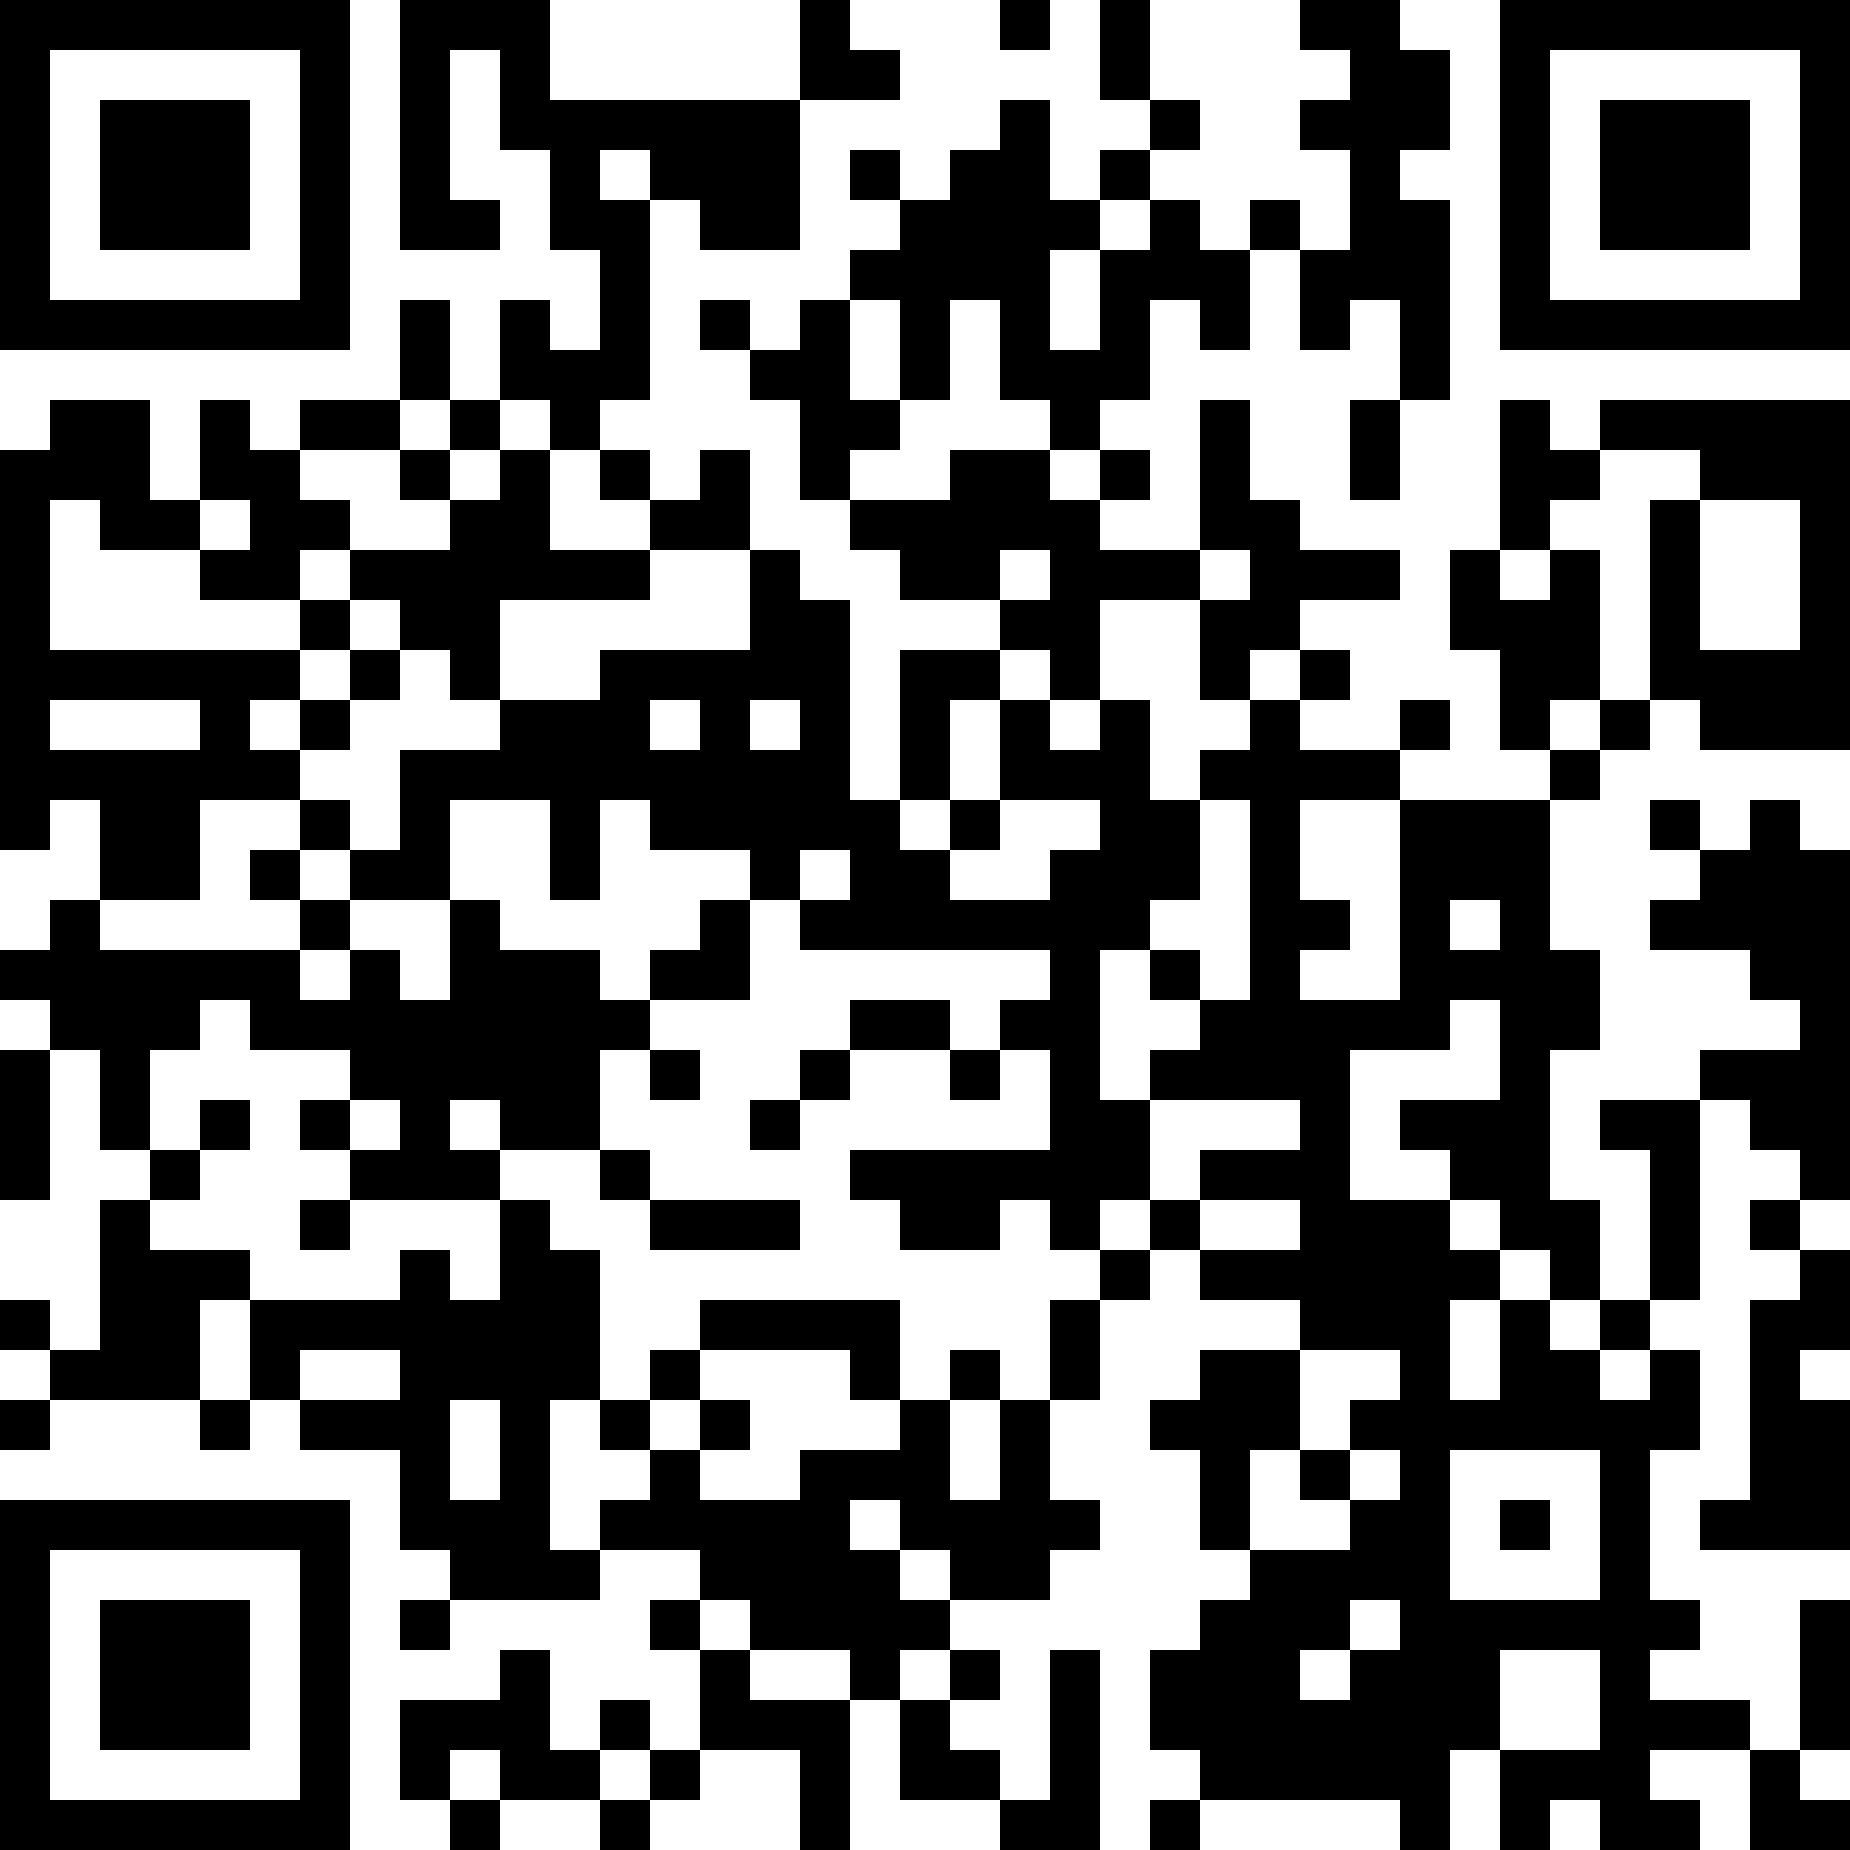
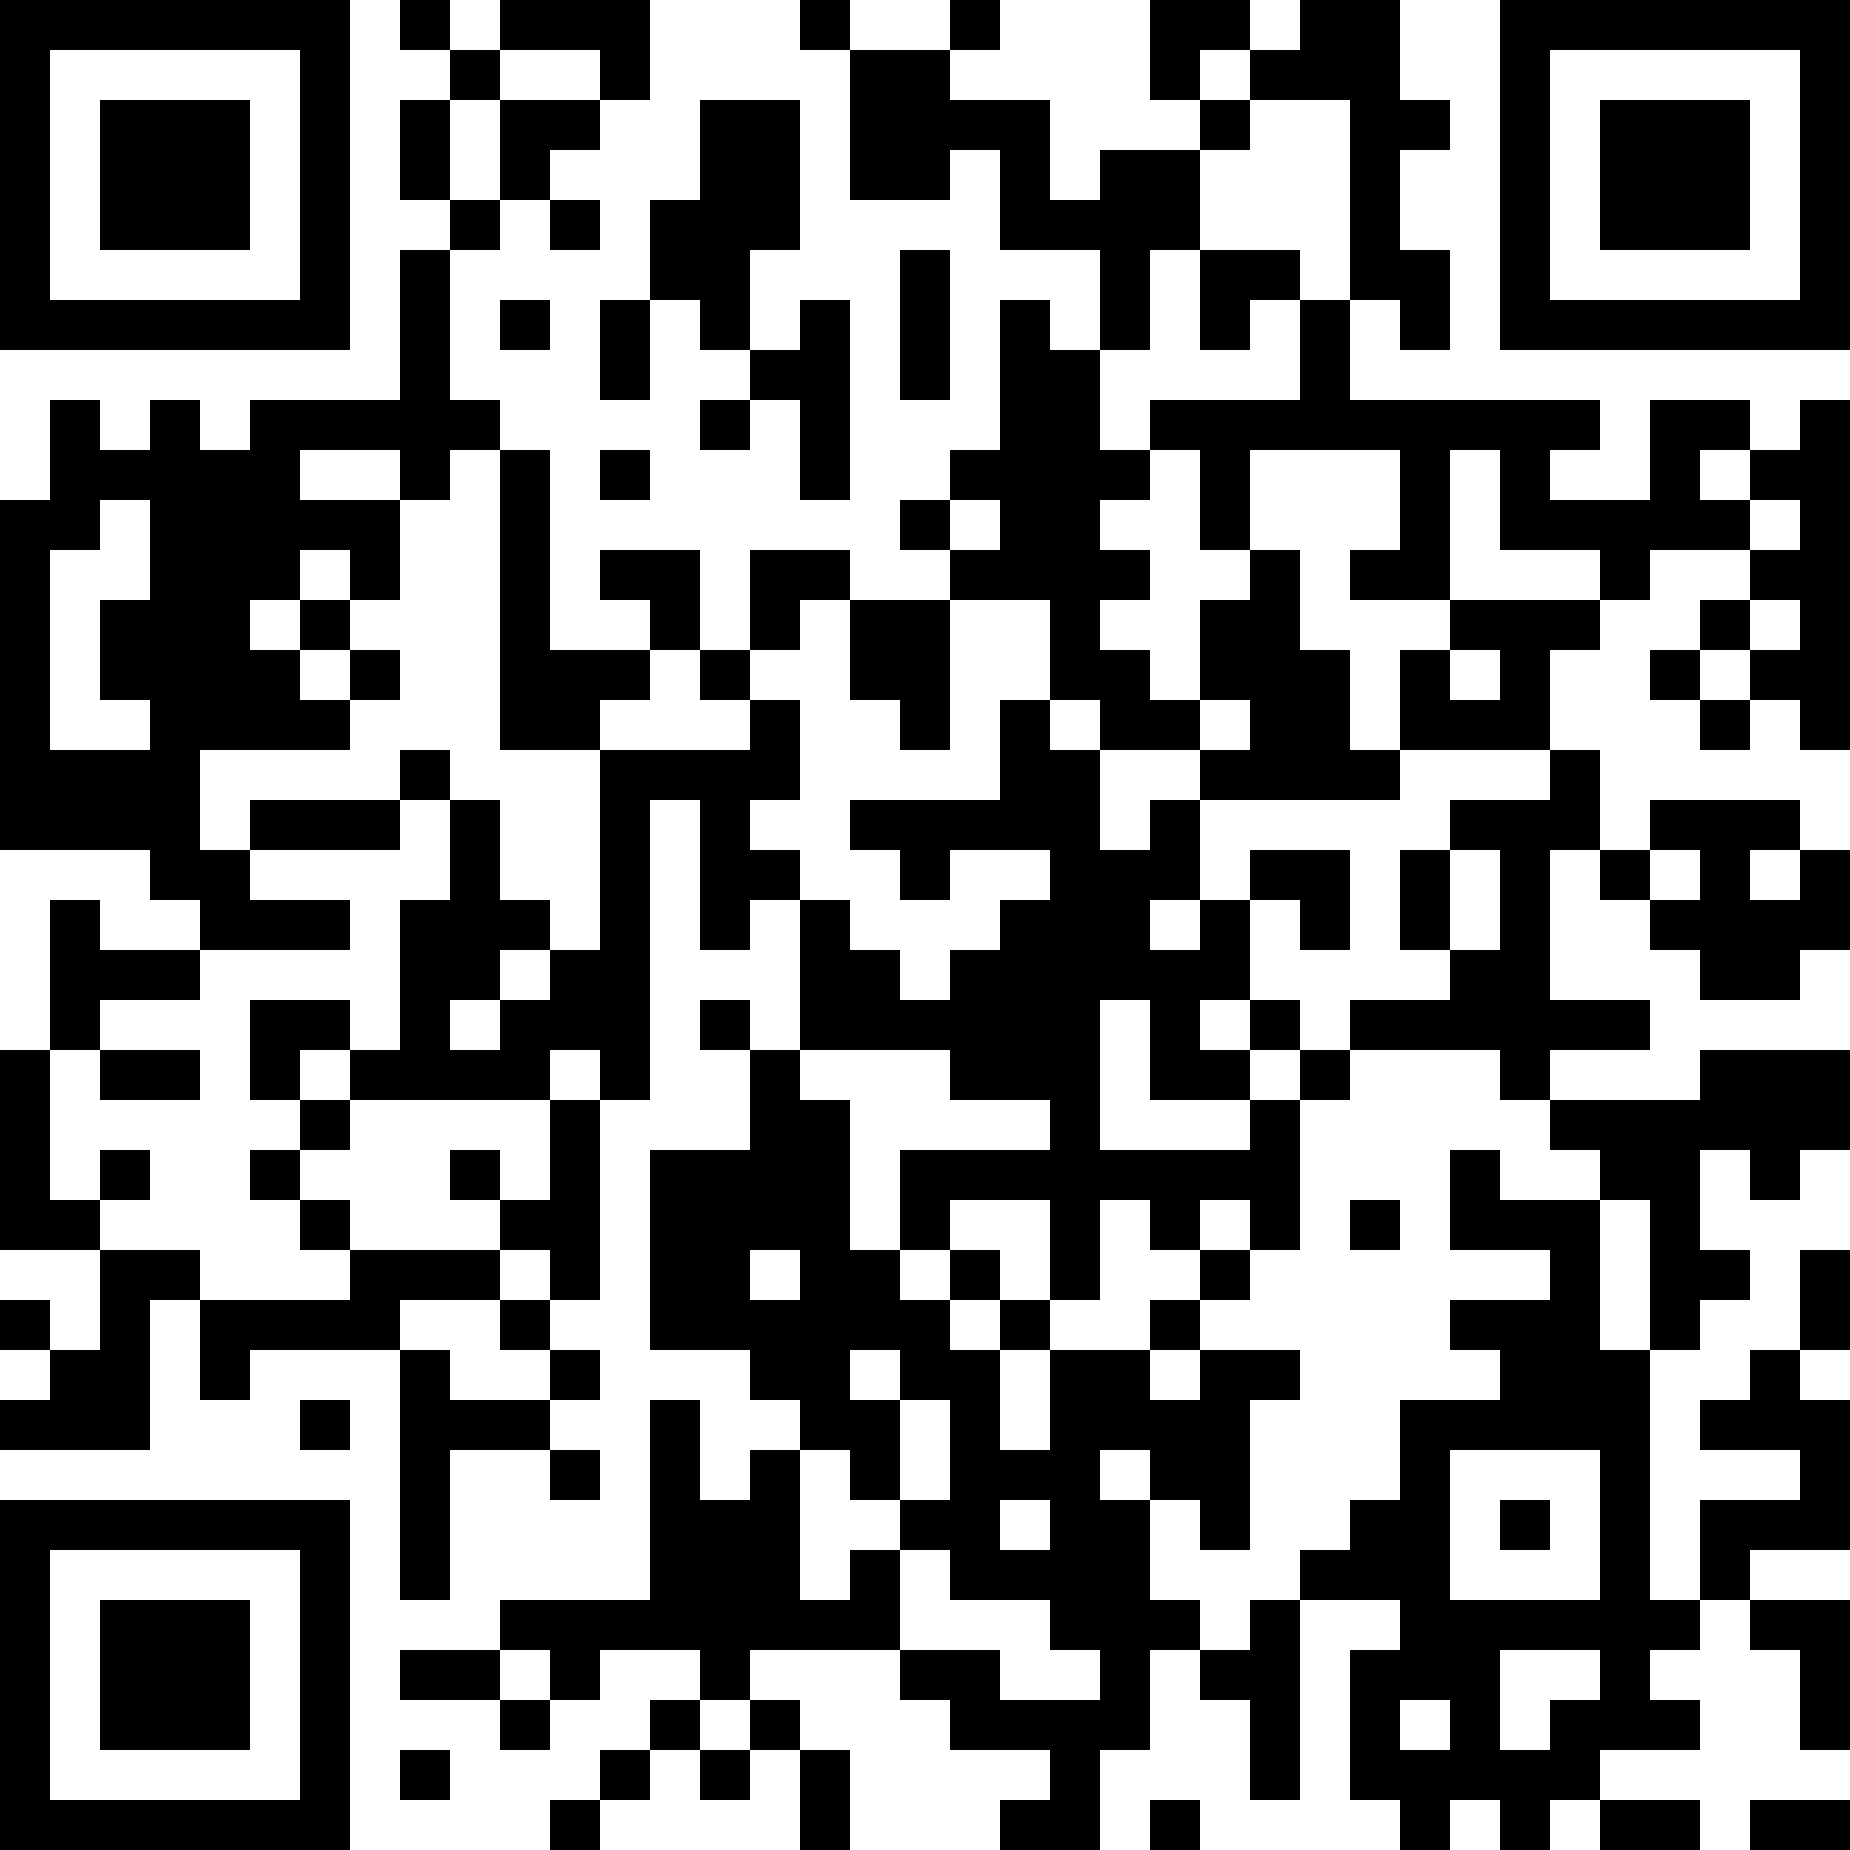
Updated presentation materials

diff --git a/scenic-city-summit/presentation.html b/scenic-city-summit/presentation.html
@@ -13,7 +13,7 @@
 <p>with AL Rodriguez</p>
 <footer>@ProgrammerAL at programmerAL.com</footer>
 </section>
-</foreignObject><foreignObject width="1280" height="720" data-marpit-advanced-background="pseudo"><section data-paginate="true" data-footer="@ProgrammerAL at programmerAL.com" data-theme="default" lang="en-US" data-marpit-pagination="1" style="" data-marpit-pagination-total="17" data-marpit-advanced-background="pseudo" data-marpit-advanced-background-split="right"></section></foreignObject></svg><svg data-marpit-svg="" viewBox="0 0 1280 720"><foreignObject width="1280" height="720"><section data-paginate="true" data-footer="@ProgrammerAL at programmerAL.com" data-theme="default" lang="en-US" data-marpit-pagination="2" style="--paginate:true;--footer:@ProgrammerAL at programmerAL.com;--theme:default;--marpit-advanced-background-split:50%;" data-marpit-pagination-total="17" data-marpit-advanced-background="background" data-marpit-advanced-background-split="right"><div data-marpit-advanced-background-container="true" data-marpit-advanced-background-direction="horizontal"><figure style="background-image:url(&quot;presentation-images/presentation_link_qrcode.png&quot;);background-size:80%;"></figure></div></section></foreignObject><foreignObject width="50%" height="720"><section id="2" data-paginate="true" data-footer="@ProgrammerAL at programmerAL.com" data-theme="default" lang="en-US" data-marpit-pagination="2" style="--paginate:true;--footer:@ProgrammerAL at programmerAL.com;--theme:default;--marpit-advanced-background-split:50%;" data-marpit-pagination-total="17" data-marpit-advanced-background="content" data-marpit-advanced-background-split="right">
+</foreignObject><foreignObject width="1280" height="720" data-marpit-advanced-background="pseudo"><section data-paginate="true" data-footer="@ProgrammerAL at programmerAL.com" data-theme="default" lang="en-US" data-marpit-pagination="1" style="" data-marpit-pagination-total="17" data-marpit-advanced-background="pseudo" data-marpit-advanced-background-split="right"></section></foreignObject></svg><svg data-marpit-svg="" viewBox="0 0 1280 720"><foreignObject width="1280" height="720"><section data-paginate="true" data-footer="@ProgrammerAL at programmerAL.com" data-theme="default" lang="en-US" data-marpit-pagination="2" style="--paginate:true;--footer:@ProgrammerAL at programmerAL.com;--theme:default;--marpit-advanced-background-split:50%;" data-marpit-pagination-total="17" data-marpit-advanced-background="background" data-marpit-advanced-background-split="right"><div data-marpit-advanced-background-container="true" data-marpit-advanced-background-direction="horizontal"><figure style="background-image:url(&quot;presentation-images/feedback-qr.png&quot;);background-size:80%;"></figure></div></section></foreignObject><foreignObject width="50%" height="720"><section id="2" data-paginate="true" data-footer="@ProgrammerAL at programmerAL.com" data-theme="default" lang="en-US" data-marpit-pagination="2" style="--paginate:true;--footer:@ProgrammerAL at programmerAL.com;--theme:default;--marpit-advanced-background-split:50%;" data-marpit-pagination-total="17" data-marpit-advanced-background="content" data-marpit-advanced-background-split="right">
 <h1 id="shameless-self-promotion">Shameless Self Promotion</h1>
 <ul>
 <li>@ProgrammerAL and <a href="https://ProgrammerAL.com">https://ProgrammerAL.com</a></li>
@@ -22,15 +22,13 @@
 </ul>
 <footer>@ProgrammerAL at programmerAL.com</footer>
 </section>
-</foreignObject><foreignObject width="1280" height="720" data-marpit-advanced-background="pseudo"><section data-paginate="true" data-footer="@ProgrammerAL at programmerAL.com" data-theme="default" lang="en-US" data-marpit-pagination="2" style="" data-marpit-pagination-total="17" data-marpit-advanced-background="pseudo" data-marpit-advanced-background-split="right"></section></foreignObject></svg><svg data-marpit-svg="" viewBox="0 0 1280 720"><foreignObject width="1280" height="720"><section id="3" data-marpit-fragments="1" data-paginate="true" data-footer="@ProgrammerAL at programmerAL.com" data-theme="default" lang="en-US" data-marpit-pagination="3" style="--paginate:true;--footer:@ProgrammerAL at programmerAL.com;--theme:default;" data-marpit-pagination-total="17">
+</foreignObject><foreignObject width="1280" height="720" data-marpit-advanced-background="pseudo"><section data-paginate="true" data-footer="@ProgrammerAL at programmerAL.com" data-theme="default" lang="en-US" data-marpit-pagination="2" style="" data-marpit-pagination-total="17" data-marpit-advanced-background="pseudo" data-marpit-advanced-background-split="right"></section></foreignObject></svg><svg data-marpit-svg="" viewBox="0 0 1280 720"><foreignObject width="1280" height="720"><section id="3" data-paginate="true" data-footer="@ProgrammerAL at programmerAL.com" data-theme="default" lang="en-US" data-marpit-pagination="3" style="--paginate:true;--footer:@ProgrammerAL at programmerAL.com;--theme:default;" data-marpit-pagination-total="17">
 <h1 id="why-are-we-here-to-review">Why are we here? To Review!</h1>
 <ul>
 <li>C# analyzers</li>
 <li>C# source code generation</li>
 <li>How these are already built into C#</li>
-</ul>
-<ul>
-<li data-marpit-fragment="1">Note: Everything Mentioned is Free</li>
+<li>Everything Mentioned is Free</li>
 </ul>
 <footer>@ProgrammerAL at programmerAL.com</footer>
 </section>

diff --git a/scenic-city-summit/presentation.md b/scenic-city-summit/presentation.md
@@ -31,7 +31,7 @@ with AL Rodriguez
 - Customer Success Engineer at Duende
 - Freelance Affiliate at globalGlob.dev
 
-![bg right 80%](presentation-images/presentation_link_qrcode.png)
+![bg right 80%](presentation-images/feedback-qr.png)
 
 ---
 
@@ -40,7 +40,7 @@ with AL Rodriguez
 - C# analyzers
 - C# source code generation
 - How these are already built into C#
-* Note: Everything Mentioned is Free
+- Everything Mentioned is Free
 
 ---
 
